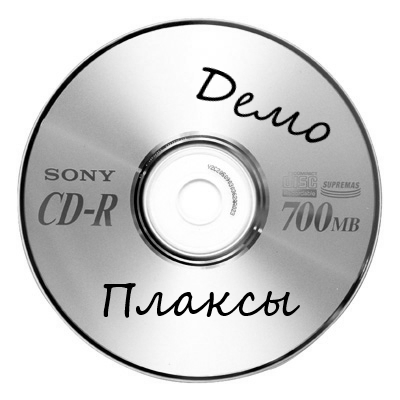
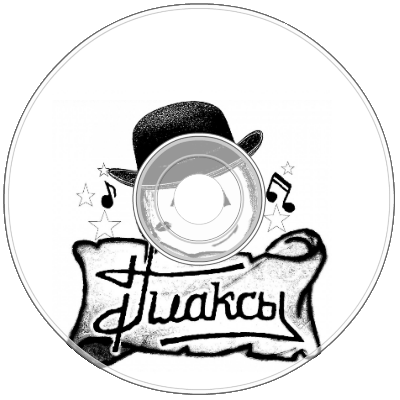
Правка верстки раздела "аудио" Убраны тени. Везде плоский дизайн

diff --git a/wp-content/themes/yoo_capture_wp/less/theme.less b/wp-content/themes/yoo_capture_wp/less/theme.less
@@ -788,8 +788,10 @@ footer {
 img[alt*="Case"] {
 position: relative;
 z-index: 10;
--webkit-box-shadow: 1px 1px 5px rgba(0, 0, 0, 0.6);
--moz-box-shadow: 1px 1px 5px rgba(0, 0, 0, 0.6);
+//-webkit-box-shadow: 1px 1px 5px rgba(0, 0, 0, 0.6);
+//-moz-box-shadow: 1px 1px 5px rgba(0, 0, 0, 0.6);
+  border: 3px solid #7C2322;
+
 }
 
 img[alt*="Disc"] {

diff --git a/wp-content/themes/yoo_capture_wp/warp/systems/wordpress/layouts/single-audio.php b/wp-content/themes/yoo_capture_wp/warp/systems/wordpress/layouts/single-audio.php
@@ -15,54 +15,51 @@
         <br>
         <br>
 
-        <table border="0" cellpadding="1" cellspacing="1" style="width: 100%;">
-    <tbody>
-        <tr>
-            <td style="vertical-align:top">
-                        <img src="/wp-content/uploads/albums/playboy.jpg" width="350px" alt="DVD Case" />
-
-            </td>
-            <td >
-                <h3 class="uk-panel-title">Участники записи:</h3>
-
-                <ul class="uk-list uk-list-striped">
-                    <li>Якухин Пашандра - Вокал/Гитары</li>
-                    <li>Данилов Максим - Вокал/Клавиши</li>
-                    <li>Лейкин Че - Бас</li>
-                    <li>Чаленков Димон - Барабансы</li>
-                    <li>Жамалетдинов Руслан - Гитара</li>
-                    <li>Ратников Юра - Трубадур</li>
-                    <li>Какой-то Вадим - Тромбон</li>
-                    <li>Василек Никита - Саксафон</li>
-                </ul>
-            </td>
-        </tr>
-    </tbody>
-</table>
-<br>
 <table border="0" cellpadding="1" cellspacing="1" style="width: 100%;">
-    <tbody>
-        <tr>
-            <td style="vertical-align:top">
+	<tbody>
+		<tr>
+			<td style="vertical-align:top; width:350px" ><img alt="DVD Case" src="/wp-content/uploads/albums/playboy.jpg" ><br>
+				<br>
+				&nbsp;</td>
+			<td style="vertical-align:top; width: 10%;">&nbsp;</td>
+			<td rowspan="2" style="background: #f7f7f7;padding: 35px; box-shadow: 0 1px 0 rgba(0, 0, 0, 0.1);">
+				<h3 class="uk-panel-title">Участники записи:</h3>
+				<dl class="uk-description-list uk-description-list-line">
+					<dt>Якухин Пашандра</dt>
+					<dd>Вокал/Гитары</dd>
+					<dt>Данилов Максим</dt>
+					<dd>Вокал/Клавиши</dd>
+					<dt>Якухин Пашандра</dt>
+					<dd>Вокал/Гитары</dd>
+					<dt>Данилов Максим</dt>
+					<dd>Вокал/Клавиши</dd>
+					<dt>Якухин Пашандра</dt>
+					<dd>Вокал/Гитары</dd>
+					<dt>Данилов Максим</dt>
+					<dd>Вокал/Клавиши</dd>
+					<dt>Якухин Пашандра</dt>
+					<dd>Вокал/Гитары</dd>
+					<dt>Данилов Максим</dt>
+					<dd>Вокал/Клавиши</dd>
+				</dl>
+			</td>
+		</tr>
+		<tr>
+			<td style="vertical-align: bottom; text-align: left;">
 
-                Год выпуска: 2013
-                <br>
-                Тип издания: Radio Edit
-                <br>
-                Записанно на студии <a href="#" target="_blank">HerSound</a>
-                <br>
-                <br>
+				Год выпуска: 2013<br>
+				Тип издания: Radio Edit<br>
+				Записанно на студии&nbsp;<a href="#" target="_blank">HerSound</a>
+                <hr>
 
-            </td>
-            <td style="text-align:right;">
-
-                <a class="uk-button vk" href="http://www.getuikit.com" target="_blank">Рассказать друзьям</a>
                 <button class="uk-button uk-button-primary" data-uk-modal="{target:'#modal-1'}">Скачать альбом</button>
-
             </td>
-        </tr>
-    </tbody>
+		</tr>
+	</tbody>
 </table>
+
+<br>
+
 <div id="modal-1" class="uk-modal" style="display: none;">
                     <div class="uk-modal-dialog" style="margin-left: -300px;">
                         <button type="button" class="uk-modal-close uk-close"></button>
@@ -77,39 +74,57 @@
                 </div>
                 <br>
                 <hr>
-<table class="uk-table  uk-table-condensed uk-table-hover">
-                    <tbody style="color:#7C2322">
-                        <tr >
-                            <td width="100%"><p style="color: #7d2422;">
-                            <i class="uk-icon-music"></i>&nbsp;<span class="uk-badge">Плаксы - Я все видел</span></p></td>
-                            <td style="float:right;"><audio src="/wp-content/uploads/test.mp3" type="audio/mp3"></audio></td>
 
-                        </tr>                        <tr >
-                            <td width="100%"><p style="color: #7d2422;">
-                            <i class="uk-icon-music"></i>&nbsp;<span class="uk-badge">Плаксы - Я все видел</span></p></td>
-                            <td style="float:right;"><audio src="/wp-content/uploads/test.mp3" type="audio/mp3"></audio></td>
-                        </tr>                        <tr >
-                            <td width="100%"><p style="color: #7d2422;">
-                            <i class="uk-icon-music"></i>&nbsp;<span class="uk-badge">Плаксы - Я все видел</span></p></td>
-                            <td style="float:right;"><audio src="/wp-content/uploads/test.mp3" type="audio/mp3"></audio></td>
-                        </tr>                        <tr >
-                            <td width="100%"><p style="color: #7d2422;">
-                            <i class="uk-icon-music"></i>&nbsp;<span class="uk-badge">Плаксы - Я все видел</span></p></td>
-                            <td style="float:right;"><audio src="/wp-content/uploads/test.mp3" type="audio/mp3"></audio></td>
-                        </tr>                        <tr >
-                            <td width="100%"><p style="color: #7d2422;">
-                            <i class="uk-icon-music"></i>&nbsp;<span class="uk-badge">Плаксы - Я все видел</span></p></td>
-                            <td style="float:right;"><audio src="/wp-content/uploads/test.mp3" type="audio/mp3"></audio></td>
-                        </tr>
-                    </tbody>
-                </table>
+    <table border="0" cellpadding="1" cellspacing="1" style="width: 100%; color: #7C2322">
+	<tbody>
+		<tr>
+			<td style="width: 100%">
+                <strong>Плаксы - Я все видел</strong>
+            </td>
+			<td></td>
+			<td style="text-align: right;">
+                <audio  src="/wp-content/uploads/test.mp3" type="audio/mp3"></audio>
+			</td>
+		</tr>
+		<tr>
+			<td style="width: 100%">
+                <strong>Плаксы - Я все видел</strong>
+            </td>
+			<td></td>
+			<td style="text-align: right;">
+                <audio src="/wp-content/uploads/test.mp3" type="audio/mp3"></audio>
+			</td>
+		</tr>
+    <tr>
+			<td style="width: 100%">
+                <strong>Плаксы - Я все видел</strong>
+            </td>
+			<td></td>
+			<td style="text-align: right;">
+                <audio src="/wp-content/uploads/test.mp3" type="audio/mp3"></audio>
+			</td>
+		</tr>
+    <tr>
+			<td style="width: 100%">
+                <strong>Плаксы - Я все видел</strong>
+            </td>
+			<td></td>
+			<td style="text-align: right;">
+                <audio src="/wp-content/uploads/test.mp3" type="audio/mp3"></audio>
+			</td>
+		</tr>
+    <tr>
+			<td style="width: 100%">
+                <strong>Плаксы - Я все видел</strong>
+            </td>
+			<td></td>
+			<td style="text-align: right;">
+                <audio src="/wp-content/uploads/test.mp3" type="audio/mp3"></audio>
+			</td>
+		</tr>
 
-
-
-
-
-
-
+    </tbody>
+</table>
 
 
 

diff --git a/wp-content/themes/yoo_capture_wp/warp/systems/wordpress/layouts/_post-audio.php b/wp-content/themes/yoo_capture_wp/warp/systems/wordpress/layouts/_post-audio.php
@@ -3,8 +3,8 @@
  <div class="uk-width-1-1 uk-width-medium-1-2">
         <a href="<?php the_permalink() ?>"><img src="/wp-content/uploads/albums/playboy.jpg" width="200px" alt="DVD Case" /><img src="/wp-content/uploads/albums/dvd-playboy.png" width="200px;" alt="DVD Disc" /></a>
         <a href="<?php the_permalink() ?>">
-        <p style="text-align:center; width: 200px;"><strong><?php the_title(); ?></strong></p>
-        <p style="text-align:center; width: 200px;"><strong>Live'14</strong></p>
+        <p style="text-align:center; width: 200px;"><strong style="color: #7C2322"><?php the_title(); ?></strong></p>
+        <p style="text-align:center; width: 200px;"><strong style="color: #7C2322">Live'14</strong></p>
 
         </a><p style="text-align:center; width: 200px;">
         <?php edit_post_link(__('Edit this post.', 'warp'), '<p><i class="uk-icon-pencil"></i> ','</p>'); ?></p>
